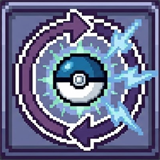
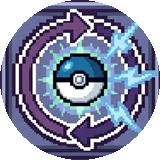
Renomeia main.ahk para pokemacro.ahk e adiciona toggles de visibilidade na config geral
Atualiza README e comentários para refletir o novo nome do arquivo de
entrada. Adiciona painel na tela de configuração geral para
exibir/ocultar cada macro na HUD (Ctrl+F12), comprime os ícones dos
macros e guarda backups dos originais em icons/backup/.

diff --git a/README.md b/README.md
@@ -57,7 +57,7 @@
 
 1. Baixe ou clone este repositório para uma pasta de sua escolha.
 2. Certifique-se de que a pasta `icons\` existe e contém os arquivos `.png` dos macros.
-3. Dê um duplo clique em **`main.ahk`** para iniciar o sistema.
+3. Dê um duplo clique em **`pokemacro.ahk`** para iniciar o sistema.
 4. A interface aparecerá na tela. Se não aparecer, pressione **Ctrl+F12**.
 
 > O arquivo `config.ini` é criado automaticamente na primeira vez que você salva qualquer configuração. Não é necessário criá-lo manualmente.
@@ -69,7 +69,7 @@
 ```
 macro_modular/
 │
-├── main.ahk                     ← Ponto de entrada — execute este arquivo
+├── pokemacro.ahk                ← Ponto de entrada — execute este arquivo
 ├── config.ini                   ← Gerado automaticamente com suas configurações
 │
 ├── icons\                       ← Ícones PNG exibidos na interface
@@ -472,12 +472,12 @@ Este é o método mais simples e não requer permissões de administrador.
 1. Pressione **Win + R** para abrir o menu Executar.
 2. Digite `shell:startup` e pressione **Enter**.
 3. Uma pasta do Windows Explorer será aberta — esta é a **pasta de inicialização automática**.
-4. Volte até a pasta onde está o `main.ahk` do PokéMacro.
-5. Segure **Ctrl + Shift** e **arraste** o arquivo `main.ahk` para a pasta de inicialização.  
+4. Volte até a pasta onde está o `pokemacro.ahk` do PokéMacro.
+5. Segure **Ctrl + Shift** e **arraste** o arquivo `pokemacro.ahk` para a pasta de inicialização.  
    *(Isso cria um atalho — não mova o arquivo original)*
 6. Pronto. Na próxima vez que o Windows iniciar, o PokéMacro abrirá automaticamente.
 
-> 💡 **Dica:** Para verificar se funcionou, pressione **Win + R**, digite `shell:startup` e confirme que o atalho do `main.ahk` está lá.
+> 💡 **Dica:** Para verificar se funcionou, pressione **Win + R**, digite `shell:startup` e confirme que o atalho do `pokemacro.ahk` está lá.
 
 ---
 
@@ -490,7 +490,7 @@ Recomendado se o Método 1 não funcionar ou se você quiser que o macro inicie 
 3. Dê um nome como `PokéMacro` e clique em **Avançar**.
 4. Em **Gatilho**, selecione **Ao fazer logon** e clique em **Avançar**.
 5. Em **Ação**, selecione **Iniciar um programa** e clique em **Avançar**.
-6. Clique em **Procurar** e selecione o arquivo `main.ahk` na pasta do PokéMacro.
+6. Clique em **Procurar** e selecione o arquivo `pokemacro.ahk` na pasta do PokéMacro.
 7. No campo **Iniciar em**, coloque o caminho completo da pasta do PokéMacro  
    *(ex: `C:\Users\SeuUsuario\Documents\macro_modular`)*
 8. Clique em **Avançar** e depois em **Concluir**.
@@ -501,7 +501,7 @@ Recomendado se o Método 1 não funcionar ou se você quiser que o macro inicie 
 
 ### Removendo a inicialização automática
 
-**Método 1:** Abra `shell:startup` pelo Win+R e delete o atalho do `main.ahk`.
+**Método 1:** Abra `shell:startup` pelo Win+R e delete o atalho do `pokemacro.ahk`.
 
 **Método 2:** Abra o Agendador de Tarefas (`taskschd.msc`), localize a tarefa `PokéMacro` na lista, clique com o botão direito e selecione **Excluir**.
 
